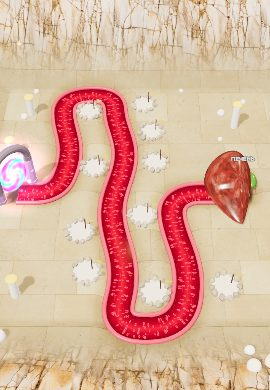
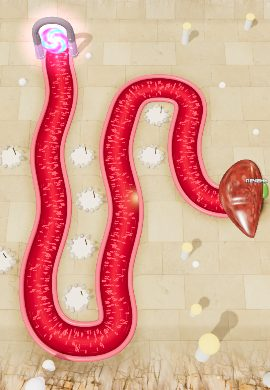
Портал ровно наверху, сосуд шире и выходит из ворот, ровные площадки, новые названия и формы значков отрядов, поле не дёргается

diff --git a/index.html b/index.html
@@ -121,7 +121,7 @@ body {
   display: flex; flex-direction: column; gap: 6px; position: relative; z-index: 3;
   box-shadow: 0 -10px 30px #0008;
 }
-#info { min-height: 32px; font-size: 12px; line-height: 1.33; color: var(--muted); display: -webkit-box; -webkit-line-clamp: 3; -webkit-box-orient: vertical; overflow: hidden; }
+#info { height: calc(12px * 1.33 * 3); flex: none; font-size: 12px; line-height: 1.33; color: var(--muted); display: -webkit-box; -webkit-line-clamp: 3; -webkit-box-orient: vertical; overflow: hidden; }
 #info b { color: var(--ink); }
 #info .tag { display: inline-flex; align-items: center; gap: 3px; padding: 1px 6px 1px 3px; border-radius: 6px; background: var(--panel-2); color: var(--ink); font-size: 11px; font-weight: 700; vertical-align: middle; }
 #cards { display: grid; grid-template-columns: repeat(5, minmax(0, 1fr)); gap: 6px; }
@@ -350,7 +350,7 @@ body {
       </div>
       <button class="btn big" data-look="menu">Фон и звуки</button>
       <button class="btn" data-go="howto">Как играть</button>
-      <p class="ver">Версия 0.10 · прототип</p>
+      <p class="ver">Версия 0.11 · прототип</p>
     </div>
   </div>
 
@@ -403,7 +403,7 @@ body {
         <div><b>1.</b> Микробы идут по сосуду к органу. Не дай им дойти.</div>
         <div><b>2.</b> Выбери карту клетки внизу и нажми на свободную площадку у сосуда (кружок из камней с флажком).</div>
         <div><b>3.</b> Нажми на поставленную клетку, чтобы <b>улучшить</b> её прямо на месте. Уровней пять: от ★ до ★★★★★.</div>
-        <div><b>4.</b> Плашка сверху на карточке — это <b>отряд</b> клетки: <i data-emb="guard"></i> Стражи замедляют, <i data-emb="dissolve"></i> Отравители травят, <i data-emb="hunt"></i> Убийцы бьют сильно, <i data-emb="snipe"></i> Снайперы бьют далеко, <i data-emb="bomb"></i> Подрывники взрывают толпу, <i data-emb="pierce"></i> Пронзатели стреляют насквозь, <i data-emb="ig"></i> Иммуноглобулины — легенды. Поставь 2 клетки одного отряда — получишь бонус, 4 — ещё больше. Эмблемы отрядов видны над полем, нажми на любую, чтобы узнать бонус.</div>
+        <div><b>4.</b> Плашка сверху на карточке — это <b>отряд</b> клетки: <i data-emb="guard"></i> Стражи замедляют, <i data-emb="dissolve"></i> Токсины травят, <i data-emb="hunt"></i> Клинки бьют сильно, <i data-emb="snipe"></i> Стрелки бьют далеко, <i data-emb="bomb"></i> Мортиры взрывают толпу, <i data-emb="pierce"></i> Иглы прошивают насквозь, <i data-emb="ig"></i> Антитела (иммуноглобулины) — легенды. Поставь 2 клетки одного отряда — получишь бонус, 4 — ещё больше. Эмблемы отрядов видны над полем, нажми на любую, чтобы узнать бонус.</div>
         <div><b>5.</b> Иммуноглобулины дорогие, но вместе очень сильные. Копи на них монеты.</div>
         <div><b>6.</b> Ненужную клетку можно разрушить и вернуть половину монет.</div>
       </div>
@@ -492,14 +492,30 @@ function emblemBody(k, id) {
       <circle cx="21" cy="28.5" r="14" fill="url(#${id})" stroke="#050508" stroke-width="2.2"/><ellipse cx="15.5" cy="22.5" rx="4.5" ry="3" fill="#ffffff" opacity=".35" transform="rotate(-30 15.5 22.5)"/>
       <path d="M33.5 12.5q3-7 8.5-5.5" stroke="#c8a070" stroke-width="2.4" fill="none" stroke-linecap="round"/>
       <path d="M42 2.5l1.6 3.8 3.9 1.5-3.9 1.6L42 13.2l-1.6-3.8-3.9-1.6 3.9-1.5z" fill="#ffd21a" stroke="#ff7a1a" stroke-width="1"/>`;
-    case 'pierce': return `<circle cx="17.5" cy="30.5" r="6" fill="none" stroke="#ff8ac8" stroke-width="3.4"/><circle cx="27.5" cy="20.5" r="6" fill="none" stroke="#ff8ac8" stroke-width="3.4"/>
-      <path d="M7 41L37 11" stroke="#5a3a00" stroke-width="5" stroke-linecap="round"/><path d="M7 41L37 11" stroke="#ffd34a" stroke-width="3" stroke-linecap="round"/>
-      <path d="M43 5l-14.5 3 11.5 11.5z" fill="#ffd34a" stroke="#5a3a00" stroke-width="1.8" stroke-linejoin="round"/>
-      <path d="M8 40l-1.5-8.5 5.5 3zM8 40l8.5 1.5-3-5.5z" fill="#22c8b0" stroke="#0a4a40" stroke-width="1.4" stroke-linejoin="round"/>`;
+    case 'pierce': return `<defs><linearGradient id="${id}" x1="0" y1="0" x2="1" y2="0"><stop offset="0" stop-color="#9aa8b8"/><stop offset=".5" stop-color="#ffffff"/><stop offset="1" stop-color="#8a98a8"/></linearGradient></defs>
+      ${[-24, 0, 24].map(a => `<g transform="rotate(${a} 24 40)"><path d="M24 4l2.6 30h-5.2z" fill="url(#${id})" stroke="#1e3a40" stroke-width="1.6" stroke-linejoin="round"/><ellipse cx="24" cy="30.5" rx="1" ry="2.2" fill="#1e3a40"/><circle cx="24" cy="5.5" r="1.3" fill="#7ff7ea"/></g>`).join('')}
+      <path d="M14 38q10 6 20 0l-2 6q-8 3-16 0z" fill="#22c8b0" stroke="#0a4a40" stroke-width="1.6" stroke-linejoin="round"/>`;
     case 'ig': return `<circle cx="24" cy="24" r="21" fill="#ffd21a" stroke="#1a1a1a" stroke-width="2.6"/><path d="${TREFOIL}" fill="#1a1a1a"/><circle cx="24" cy="24" r="4.2" fill="#1a1a1a"/>
       <circle cx="24" cy="24" r="21" fill="none" stroke="#fff6a0" stroke-width="1" opacity=".6" transform="translate(24 24) scale(.88) translate(-24 -24)"/>`;
   }
   return '';
+}
+// Форма подложки значка у каждого отряда своя: щит, капля-шестиугольник, ромб, круг, восьмиугольник, треугольник, круг-радиация
+const PLATE = {
+  guard: 'M32 4l24 9v17c0 15-10 26-24 31C18 56 8 45 8 30V13z',
+  dissolve: 'M32 3l25 14.5v29L32 61 7 46.5v-29z',
+  hunt: 'M32 2l30 30-30 30L2 32z',
+  snipe: 'M32 4a28 28 0 1 1 0 56 28 28 0 0 1 0-56z',
+  bomb: 'M21 4h22l15 15v26L43 60H21L6 45V19z',
+  pierce: 'M32 3l30 52H2z',
+  ig: 'M32 4a28 28 0 1 1 0 56 28 28 0 0 1 0-56z'
+};
+function plate(k, size = 20) {
+  const f = FAC[k], id = 'pl' + (crestId++);
+  return `<svg class="emb" width="${size}" height="${size}" viewBox="0 0 64 64" style="filter:drop-shadow(0 1px 2px rgba(0,0,0,.65))">
+    <defs><linearGradient id="${id}g" x1="0" y1="0" x2="0" y2="1"><stop offset="0" stop-color="#ffffff" stop-opacity=".95"/><stop offset="1" stop-color="${f.color}"/></linearGradient></defs>
+    <path d="${PLATE[k]}" fill="#1a0c12" stroke="url(#${id}g)" stroke-width="4" stroke-linejoin="round"/>
+    <g transform="translate(${k === 'pierce' ? 15 : 12} ${k === 'pierce' ? 20 : 12}) scale(${k === 'pierce' ? .7 : .83})">${emblemBody(k, id)}</g></svg>`;
 }
 // Эмблема сама по себе (на карточке, в подсказке)
 function emblem(k, size = 20) { return `<svg class="emb" width="${size}" height="${size}" viewBox="0 0 48 48" style="filter:drop-shadow(0 1px 1.5px rgba(0,0,0,.6))">${emblemBody(k, 'em' + (crestId++))}</svg>`; }
@@ -519,19 +535,19 @@ function crest(k, n, size = 48) {
     ring += `<path d="M${p(a0)} A${R} ${R} 0 0 1 ${p(a1)}" stroke="${i < n ? f.color : '#ffffff26'}" stroke-width="4.4" fill="none" stroke-linecap="round"/>`;
   }
   return `<svg class="crest${on ? ' on' : ''}" width="${size}" height="${size}" viewBox="0 0 64 64" style="--tc:${f.color}">
-    ${ring}<circle cx="32" cy="32" r="23.5" fill="#1a0c12" stroke="${f.color}" stroke-width="2" stroke-opacity=".7"/>
-    <g transform="translate(14.5 14.5) scale(.73)">${emblemBody(k, id)}</g></svg>`;
+    ${ring}<g transform="translate(32 32) scale(.74) translate(-32 -32)"><path d="${PLATE[k]}" fill="#1a0c12" stroke="${f.color}" stroke-width="3.5" stroke-linejoin="round"/></g>
+    <g transform="translate(${k === 'pierce' ? 18 : 16} ${k === 'pierce' ? 20 : 16}) scale(${k === 'pierce' ? .58 : .67})">${emblemBody(k, id)}</g></svg>`;
 }
 
 // Фракции: бонус за 2/4 клетки (иммуноглобулины — 2/3/5)
 const FAC = {
   guard:    { name: 'Стражи', what: 'замедляют и держат врагов', color: '#4a8cff', tiers: [2, 4], text: ['враги замедляются сильнее', 'замедление очень сильное и долгое'] },
-  dissolve: { name: 'Отравители', what: 'травят ядом и разъедают броню', color: '#35c85a', tiers: [2, 4], text: ['яд и разъедание брони в 1,5 раза сильнее', 'яд и разъедание брони в 2,2 раза сильнее'] },
-  hunt:     { name: 'Убийцы', what: 'мощный удар в одного', color: '#ff4a5a', tiers: [2, 4], text: ['чаще бьют критом (+15%)', 'ещё чаще бьют критом (+30%)'] },
-  snipe:    { name: 'Снайперы', what: 'бьют очень далеко', color: '#ff9a2a', tiers: [2, 4], text: ['дальность +0,6', 'дальность +1,2'] },
-  bomb:     { name: 'Подрывники', what: 'взрывы по толпе', color: '#9a6aff', tiers: [2, 4], text: ['взрывы шире на 25%', 'взрывы шире на 50%'] },
-  pierce:   { name: 'Пронзатели', what: 'выстрел прошивает насквозь', color: '#22c8b0', tiers: [2, 4], text: ['каждый следующий пробитый получает +20%', 'каждый следующий пробитый получает +40%'] },
-  ig:       { name: 'Иммуноглобулины', short: 'Антитела', what: 'легенды: очень сильные вместе', color: '#ffd21a', tiers: [2, 3, 5], text: ['урон иммуноглобулинов +30%', 'урон иммуноглобулинов +70%', 'урон иммуноглобулинов +150%'] }
+  dissolve: { name: 'Токсины', what: 'травят ядом и разъедают броню', color: '#35c85a', tiers: [2, 4], text: ['яд и разъедание брони в 1,5 раза сильнее', 'яд и разъедание брони в 2,2 раза сильнее'] },
+  hunt:     { name: 'Клинки', what: 'мощный удар в одного', color: '#ff4a5a', tiers: [2, 4], text: ['чаще бьют критом (+15%)', 'ещё чаще бьют критом (+30%)'] },
+  snipe:    { name: 'Стрелки', what: 'бьют очень далеко', color: '#ff9a2a', tiers: [2, 4], text: ['дальность +0,6', 'дальность +1,2'] },
+  bomb:     { name: 'Мортиры', what: 'взрывы по толпе', color: '#9a6aff', tiers: [2, 4], text: ['взрывы шире на 25%', 'взрывы шире на 50%'] },
+  pierce:   { name: 'Иглы', what: 'выстрел прошивает насквозь', color: '#22c8b0', tiers: [2, 4], text: ['каждый следующий пробитый получает +20%', 'каждый следующий пробитый получает +40%'] },
+  ig:       { name: 'Антитела', what: 'легенды: очень сильные вместе', color: '#ffd21a', tiers: [2, 3, 5], text: ['урон иммуноглобулинов +30%', 'урон иммуноглобулинов +70%', 'урон иммуноглобулинов +150%'] }
 };
 
 const UNITS = [
@@ -1003,8 +1019,8 @@ function heightAt(x, z) {
   const db = boxDist(x, z), dp = pathDist(x, z);
   let h = (fbm(x * .5 + 3, z * .5) - .5) * .05;
   h += smooth(0, 3.5, db) * (.5 + 2.2 * fbm(x * TH.freq, z * TH.freq)) * TH.amp + db * .09 * TH.amp;
-  const trench = PATH_Y - .05 + (0 - PATH_Y + .05) * smooth(.4, .78, dp);
-  return Math.min(h, trench + Math.max(0, h) * smooth(.4, 1.2, dp));
+  const trench = PATH_Y - .05 + (0 - PATH_Y + .05) * smooth(.56, .95, dp);
+  return Math.min(h, trench + Math.max(0, h) * smooth(.56, 1.35, dp));
 }
 
 // Земля: две текстуры (поле и холмы) смешиваются по атрибуту blend
@@ -1046,8 +1062,8 @@ function buildTerrain() {
     blend[i] = smooth(.2, 2.4, db);
     // мягкие пятна света и тени разбивают повтор текстуры, берега и русло темнее
     col.copy(base).multiplyScalar(.86 + .28 * fbm(x * .35 + 7, z * .35));
-    col.lerp(bank, (1 - smooth(.42, .95, dp)) * .45);
-    col.lerp(dark, (1 - smooth(.3, .52, dp)) * .8);
+    col.lerp(bank, (1 - smooth(.56, 1.08, dp)) * .45);
+    col.lerp(dark, (1 - smooth(.42, .66, dp)) * .8);
     if (db > 0) col.multiplyScalar(.82 + .3 * smooth(-.2, 2.2, h));
     cols[i * 3] = col.r; cols[i * 3 + 1] = col.g; cols[i * 3 + 2] = col.b;
   }
@@ -1192,20 +1208,22 @@ const cellPos = (c, r) => new T.Vector3(c - OX, 0, r - OZ);
 // Змейка слева направо: вход слева посередине, вертикальные участки по очереди вверх и вниз, печень справа
 function makeLayout(aspect) {
   const portrait = aspect < 1.4;
-  const rows = aspect < .9 ? 13 : aspect < 1.4 ? 11 : 9, gap = portrait ? 2 : 3;
+  const rows = aspect < .9 ? 13 : aspect < 1.4 ? 11 : 9, gap = portrait ? 2.6 : 3.4;
   const width = Math.round(rows * aspect * .92 - 2.6);
-  const runs = Math.max(2, Math.floor((width - 2) / gap) + 1);
-  const mid = Math.floor(rows / 2), wp = [[-0.45, mid]], R = [];
-  let y = mid;
+  const runs = Math.max(3, Math.floor((width - 1.4) / gap) + 1);
+  // вход — ворота наверху первого участка: сосуд выходит из них вниз, прямо к игроку
+  const mid = Math.floor(rows / 2), wp = [[1, -1.3]], R = [];
+  let y = -1.3;
   for (let k = 0; k < runs; k++) {
-    const c = 1 + k * gap, to = k === runs - 1 ? mid : (k % 2 === 0 ? 1 : rows - 2);
-    wp.push([c, y], [c, to]); R.push({ c, z0: y, z1: to }); y = to;
+    const c = 1 + k * gap, to = k === runs - 1 ? mid : (k % 2 === 0 ? rows - 2 : 1);
+    if (k) wp.push([c, y]);
+    wp.push([c, to]); R.push({ c, z0: y, z1: to }); y = to;
   }
   const last = 1 + (runs - 1) * gap;
   wp.push([last + 2.3, mid]);   // конец сосуда спрятан внутри органа
   // петли: между соседними участками, «залив» открыт в сторону начала участка
   const turns = R.slice(0, -1).map((r, k) => ({ x: r.c + gap / 2, z: r.z1, dir: Math.sign(r.z0 - r.z1) || 1, a: r, b: R[k + 1] }));
-  return { rows, cols: last + 2, wp, portrait, runs: R, turns, gap, mid };
+  return { rows, cols: Math.ceil(last + 2), wp, portrait, runs: R, turns, gap, mid };
 }
 
 function pathAt(d, v = new T.Vector3()) {
@@ -1386,7 +1404,7 @@ function buildBoard(L) {
     }
   }
   // Плавные петли вместо прямых углов, сосуд слегка извивается
-  const P = WP.map(([c, r]) => cellPos(c, r)), raw = [P[0].clone()], rad = L.portrait ? .95 : 1.2;
+  const P = WP.map(([c, r]) => cellPos(c, r)), raw = [P[0].clone()], rad = L.gap / 2 - .02;
   for (let i = 1; i < P.length - 1; i++) {
     const a = P[i - 1], b = P[i], n = P[i + 1];
     const d1 = b.clone().sub(a).normalize(), d2 = n.clone().sub(b).normalize();
@@ -1408,7 +1426,7 @@ function buildBoard(L) {
   PATH = { pts: out, cum, len: cum[cum.length - 1] };
   SPEEDK = PATH.len / 30;   // на длинном сосуде микробы быстрее — сложность одинаковая на любом экране
 
-  const W = .38, step = .06, pos = [], uv = [], idx = [];
+  const W = .52, step = .06, pos = [], uv = [], idx = [];   // сосуд шире
   const p = new T.Vector3(), q = new T.Vector3(), dir = new T.Vector3(), side = new T.Vector3();
   let n = 0;
   for (let d = 0; d <= PATH.len + 1e-6; d += step) {
@@ -1433,11 +1451,11 @@ function buildBoard(L) {
       dir.normalize(); side.set(-dir.z, 0, dir.x);
       pts.push(new T.Vector3(p.x + side.x * (W + .04) * sgn, PATH_Y + .05, p.z + side.z * (W + .04) * sgn));
     }
-    const wall = new T.Mesh(new T.TubeGeometry(new T.CatmullRomCurve3(pts), pts.length * 3, .07, 8), wallMat);
+    const wall = new T.Mesh(new T.TubeGeometry(new T.CatmullRomCurve3(pts), pts.length * 3, .085, 8), wallMat);
     wall.castShadow = true; wall.receiveShadow = true; board.add(wall);
   }
 
-  portal.position.copy(PATH.pts[0]).setY(0); { const d = PATH.pts[3].clone().sub(PATH.pts[0]); portal.rotation.y = -Math.atan2(d.z, d.x) - .8; portal.scale.setScalar(1.25); }   // ворота развёрнуты к игроку, чтобы был виден светящийся проход
+  { const g0 = pathAt(.75), g1 = pathAt(1.2); portal.position.set(g0.x, 0, g0.z); portal.rotation.y = -Math.atan2(g1.z - g0.z, g1.x - g0.x); portal.scale.setScalar(1.3); }   // ворота стоят ровно поперёк сосуда, микробы выходят из проёма
   const sc = L.portrait ? 1.15 : 1.5, end = PATH.pts[PATH.pts.length - 1];
   organ.scale.setScalar(sc); organ.position.set(end.x - .25 * sc, 0, end.z);  // последний отрезок сосуда уходит под орган
   organ.updateMatrixWorld(true);
@@ -1446,31 +1464,25 @@ function buildBoard(L) {
   // Площадки — «островки» в выгодных местах: там, где в радиусе выстрела больше всего сосуда (петли, промежутки между участками)
   TER.hash.clear();
   for (let d = 0; d <= PATH.len; d += .12) { const pp = pathAt(d); const kk = Math.floor(pp.x) + ',' + Math.floor(pp.z); if (!TER.hash.has(kk)) TER.hash.set(kk, []); TER.hash.get(kk).push(pp.x, pp.z); }
-  const wob = (wz) => Math.sin(wz * 1.25 + L.ph) * .2, P0 = PATH.pts[0], rr = L.portrait ? .95 : 1.2;
-  const cands = [];   // { x, z, pr } — чем меньше pr, тем важнее место
+  // Порядок как в классических защитах: одна площадка в центре каждой петли, ещё две ровно по оси «залива»,
+  // и пара вдоль открытой стороны первого участка. Ни одна не касается сосуда.
+  const wob = (wz) => Math.sin(wz * 1.25 + L.ph) * .2, P0 = PATH.pts[0], rr = L.gap / 2;
+  const cands = [];
   const add = (gx, gz, pr) => { const c = cellPos(gx, gz); cands.push({ x: c.x + wob(c.z), z: c.z, pr }); };
   L.turns.forEach(t => {
-    add(t.x, t.z + t.dir * (rr + .15), 0);                                                 // центр петли — бьёт по дуге с трёх сторон
+    add(t.x, t.z + t.dir * (rr + .1), 0);
     const zEnd = t.dir > 0 ? Math.min(Math.max(t.a.z0, t.a.z1), Math.max(t.b.z0, t.b.z1)) : Math.max(Math.min(t.a.z0, t.a.z1), Math.min(t.b.z0, t.b.z1));
-    for (let z = t.z + t.dir * (rr + 1.55); (z - zEnd) * t.dir < -.4; z += t.dir * 1.45) add(t.x, z, 1);   // вглубь «залива»
+    for (let n = 1, z = t.z + t.dir * (rr + .1 + 1.8); n <= 3 && (z - zEnd) * t.dir < -.6; n++, z += t.dir * 1.8) add(t.x, z, n);
   });
-  L.runs.forEach((r, k) => {
-    const lo = Math.min(r.z0, r.z1) + .7, hi = Math.max(r.z0, r.z1) - .7;
-    for (const side of [-1, 1]) {
-      if (k === 0 && side < 0) continue;            // слева от первого участка — у входа, не нужно
-      for (let z = lo; z <= hi; z += 1.5) add(r.c + side * 1.12, z, 2);   // в узком «заливе» отсеется по расстоянию до сосуда
-    }
-  });
+  { const r = L.runs[0], lo = Math.min(r.z0, r.z1), hi = Math.max(r.z0, r.z1); for (const f of [.45, .78]) add(r.c - 1.35, lo + (hi - lo) * f, 3); }
   const chosen = [];
   cands.sort((a, b) => a.pr - b.pr);
-  const K = Math.max(12, Math.min(20, Math.round(PATH.len * .62)));
   for (const cd of cands) {
-    if (chosen.length >= K) break;
     const dp = pathDist(cd.x, cd.z);
-    if (dp < .93 || dp > 1.6) continue;                                            // не заходит на сосуд и не слишком далеко
+    if (dp < 1.1) continue;                                                     // площадка (r 0,42) не касается стенки сосуда (0,6)
     if (cd.x + .5 > ob.min.x && cd.z > ob.min.z - .3 && cd.z < ob.max.z + .3) continue;
     if (Math.hypot(cd.x - P0.x, cd.z - P0.z) < 1.8) continue;
-    if (chosen.every(o => Math.hypot(o.x - cd.x, o.z - cd.z) >= 1.45)) chosen.push(cd);
+    if (chosen.every(o => Math.hypot(o.x - cd.x, o.z - cd.z) >= 1.5)) chosen.push(cd);
   }
   const stones = new T.InstancedMesh(stoneGeo, stoneMat, chosen.length * 11), dm = new T.Object3D(), sc2 = new T.Color();
   chosen.forEach((cd, i) => {
@@ -1737,7 +1749,7 @@ const G = {
 };
 try { G.best = +localStorage.getItem('immuneBest') || 0; } catch (e) {}
 
-const maxUnits = () => Math.min(12, 5 + Math.floor(G.wave / 4));
+const maxUnits = () => Math.min(12, pads.size || 12, 5 + Math.floor(G.wave / 4));
 
 function computeBonus() {
   const cnt = {};
@@ -2224,7 +2236,7 @@ function renderCards() {
     const have = G.units.filter(u => u.def.id === d.id).length;
     el.className = 'card' + (card.leg ? ' leg' : '') + (card.sold ? ' sold' : '') + (G.coins < d.cost ? ' poor' : '') + (G.sel && G.sel.card === card && G.sel.idx === i ? ' sel' : '');
     el.style.setProperty('--tc', FAC[d.fac].color);
-    el.innerHTML = `<span class="fhead">${emblem(d.fac, 14)}<span class="${(FAC[d.fac].short || FAC[d.fac].name).length > 9 ? 'long' : ''}">${FAC[d.fac].short || FAC[d.fac].name}</span></span>${have ? `<span class="have">×${have}</span>` : ''}<img alt="" src="${cellIcon(d)}"><span class="nm">${d.name}</span><span class="cost"><i></i>${d.cost}</span>`;
+    el.innerHTML = `<span class="fhead">${plate(d.fac, 18)}<span class="${(FAC[d.fac].short || FAC[d.fac].name).length > 9 ? 'long' : ''}">${FAC[d.fac].short || FAC[d.fac].name}</span></span>${have ? `<span class="have">×${have}</span>` : ''}<img alt="" src="${cellIcon(d)}"><span class="nm">${d.name}</span><span class="cost"><i></i>${d.cost}</span>`;
     el.onclick = () => selectCard(card, i);
     box.appendChild(el);
   });
@@ -2241,7 +2253,7 @@ function selectCard(card, idx) {
   if (G.sel && G.sel.card === card && G.sel.idx === idx) { G.sel = null; highlight(); renderCards(); setInfo(); return; }
   G.sel = { card, idx };
   const d = card.def, f = FAC[d.fac];
-  setInfo(`<b>${d.name}</b> — ${d.role.toLowerCase()}${d.ult ? `. Ульта: ${d.ult}` : ''}.<br><span class="tag">${emblem(d.fac, 14)} ${f.name}</span> ${f.what}; поставь ${f.tiers[0]} — ${f.text[0]}. ${G.coins < d.cost ? `<b style="color:#ff8a8a">Не хватает ${d.cost - G.coins} монет.</b>` : 'Нажми на площадку.'}`);
+  setInfo(`<b>${d.name}</b> — ${d.role.toLowerCase()}${d.ult ? `. Ульта: ${d.ult}` : ''}.<br><span class="tag">${plate(d.fac, 16)} ${f.name}</span> ${f.what}; поставь ${f.tiers[0]} — ${f.text[0]}. ${G.coins < d.cost ? `<b style="color:#ff8a8a">Не хватает ${d.cost - G.coins} монет.</b>` : 'Нажми на площадку.'}`);
   highlight(); renderCards();
 }
 
@@ -2284,7 +2296,7 @@ function openUnit(u) {
   const arrow = (a, b, f = (v) => Math.round(v)) => next ? `${f(a)} <i class="up">→ ${f(b)}</i>` : f(a);
   el.innerHTML = `
     <div class="head"><img alt="" src="${cellIcon(d)}"><div><div class="t">${d.name} <span class="lv">Ур. ${u.level}</span></div>
-    <div class="s" style="display:flex;align-items:center;gap:4px">${emblem(d.fac, 16)} ${FAC[d.fac].name} · <span style="color:var(--gold)">${'★'.repeat(u.level)}</span><span style="opacity:.3">${'★'.repeat(MAX_LV - u.level)}</span></div></div></div>
+    <div class="s" style="display:flex;align-items:center;gap:4px">${plate(d.fac, 18)} ${FAC[d.fac].name} · <span style="color:var(--gold)">${'★'.repeat(u.level)}</span><span style="opacity:.3">${'★'.repeat(MAX_LV - u.level)}</span></div></div></div>
     <div class="s">${d.role}${d.ult ? '. Ульта — ' + d.ult : ''}</div>
     <div class="stats"><div>Урон<b>${arrow(s.dmg, next?.dmg)}</b></div><div>Атак в сек.<b>${arrow(1 / s.rate, next && 1 / next.rate, (v) => v.toFixed(1))}</b></div><div>Дальность<b>${arrow(s.range, next?.range, (v) => v.toFixed(1))}</b></div></div>
     <button class="btn go" id="upBtn" ${max || G.coins < cost ? 'disabled' : ''}>${max ? 'Максимальный уровень' : G.coins < cost ? `Улучшить: не хватает ${cost - G.coins}` : `Улучшить до ур. ${u.level + 1} · ${cost}`}</button>
@@ -2610,7 +2622,7 @@ $('mapSvg').onclick = (e) => {
   if (open) { $('lvPlay').onclick = () => startGame('campaign', i); $('lvEndless').onclick = () => startGame('endless', i); }
 };
 
-document.querySelectorAll('[data-emb]').forEach(el => { el.outerHTML = emblem(el.dataset.emb, 16); });
+document.querySelectorAll('[data-emb]').forEach(el => { el.outerHTML = plate(el.dataset.emb, 18); });
 const TIPS = [
   'Совет: Стражи замедляют микробов, а Бомбардиры бьют по скоплению.',
   'Совет: IgA тормозит шипами, IgD добивает замедленных вдвое сильнее.',
@@ -2647,6 +2659,8 @@ function fit() {
   const ob = new T.Box3().setFromObject(organ);
   for (const x of [ob.min.x, ob.max.x]) for (const z of [ob.min.z, ob.max.z]) pts.push(new T.Vector3(x, ob.max.y, z), new T.Vector3(x, 0, z));
   const ps = PATH.pts[0]; for (const dx of [-.8, .8]) for (const dz of [-.8, .8]) pts.push(new T.Vector3(ps.x + dx, 0, ps.z + dz));
+  pts.push(portal.position.clone().setY(1.6));
+  for (let d = 0; d <= PATH.len; d += .5) { const q = pathAt(d); for (const o of [-.75, .75]) pts.push(new T.Vector3(q.x + o, 0, q.z + o)); }   // сосуд целиком в кадре
   const center = new T.Box3().setFromPoints(pts).getCenter(new T.Vector3()).setY(0);
   const place = (tilt, d, tgt) => { camera.position.set(tgt.x, Math.sin(tilt) * d, tgt.z + Math.cos(tilt) * d); camera.lookAt(tgt); camera.updateMatrixWorld(); };
   const extent = () => { let x0 = 9, x1 = -9, y0 = 9, y1 = -9; for (const p of pts) { const v = p.clone().project(camera); x0 = Math.min(x0, v.x); x1 = Math.max(x1, v.x); y0 = Math.min(y0, v.y); y1 = Math.max(y1, v.y); } return { x0, x1, y0, y1 }; };
